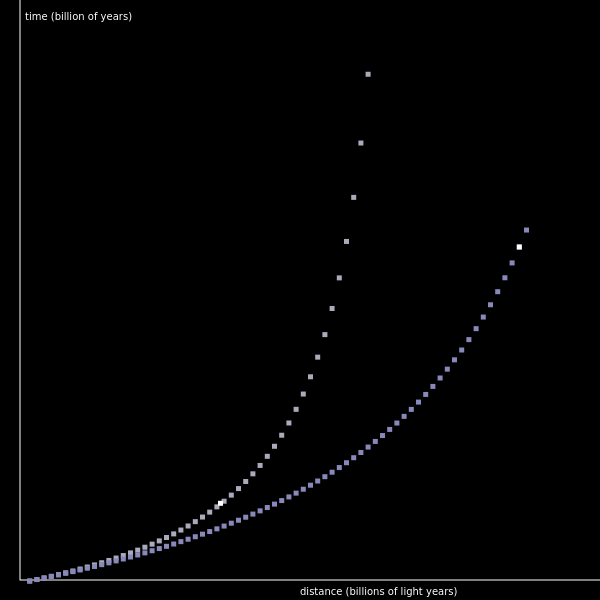
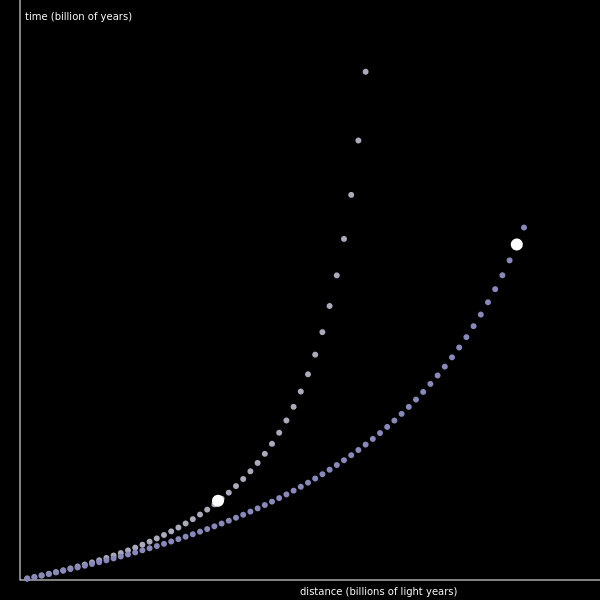
use dots on graph

diff --git a/index.htm b/index.htm
@@ -278,17 +278,25 @@
             ctxG.fillStyle = models[m].color
             for (var i = 0; i < models[m].targets.length; i++) {
                 if (models[m].targets[i].hit) {
-                    ctxG.fillRect(offset + models[m].targets[i].start * zoomG, -offset + graph.height - models[m].targets[i].hit * zoomGY, 5, 5)
+                    //ctxG.fillRect(offset + models[m].targets[i].start * zoomG, -offset + graph.height - models[m].targets[i].hit * zoomGY, 5, 5)
+                    ctxG.beginPath()
+                    ctxG.arc(offset + models[m].targets[i].start * zoomG, -offset + graph.height - models[m].targets[i].hit * zoomGY, 3, 0, Math.PI * 2)
+                    ctxG.fill()
                 }
             }
+            
         }
 
         ctxG.fillStyle = "white"
         ctxG.fillText("time (billion of years)", offset + 5, offset)
         ctxG.fillText("distance (billions of light years)", graph.width / 2, graph.height - 5)
         
-        ctxG.fillRect(offset + 5500 * zoomG, graph.height - 11000 * zoomGY - offset, 5, 5)
-        ctxG.fillRect(offset + 13800 * zoomG, graph.height - 46600 * zoomGY - offset, 5, 5)
+        ctxG.beginPath()
+        ctxG.arc(offset + 5500 * zoomG, graph.height - 11000 * zoomGY - offset, 6, 0, Math.PI * 2)
+        ctxG.fill()
+        ctxG.beginPath()
+        ctxG.arc(offset + 13800 * zoomG, graph.height - 46600 * zoomGY - offset, 6, 0, Math.PI * 2)
+        ctxG.fill()
     }
 
     function runModel(model) {
@@ -303,7 +311,7 @@
         model.t = 0
 
         var i
-        var batch = 100
+        var batch = 500
         var handle = setInterval(function () {
             for (i = 0; i < batch; i++) {
                 if (model.targets[model.nextTarget]) {
